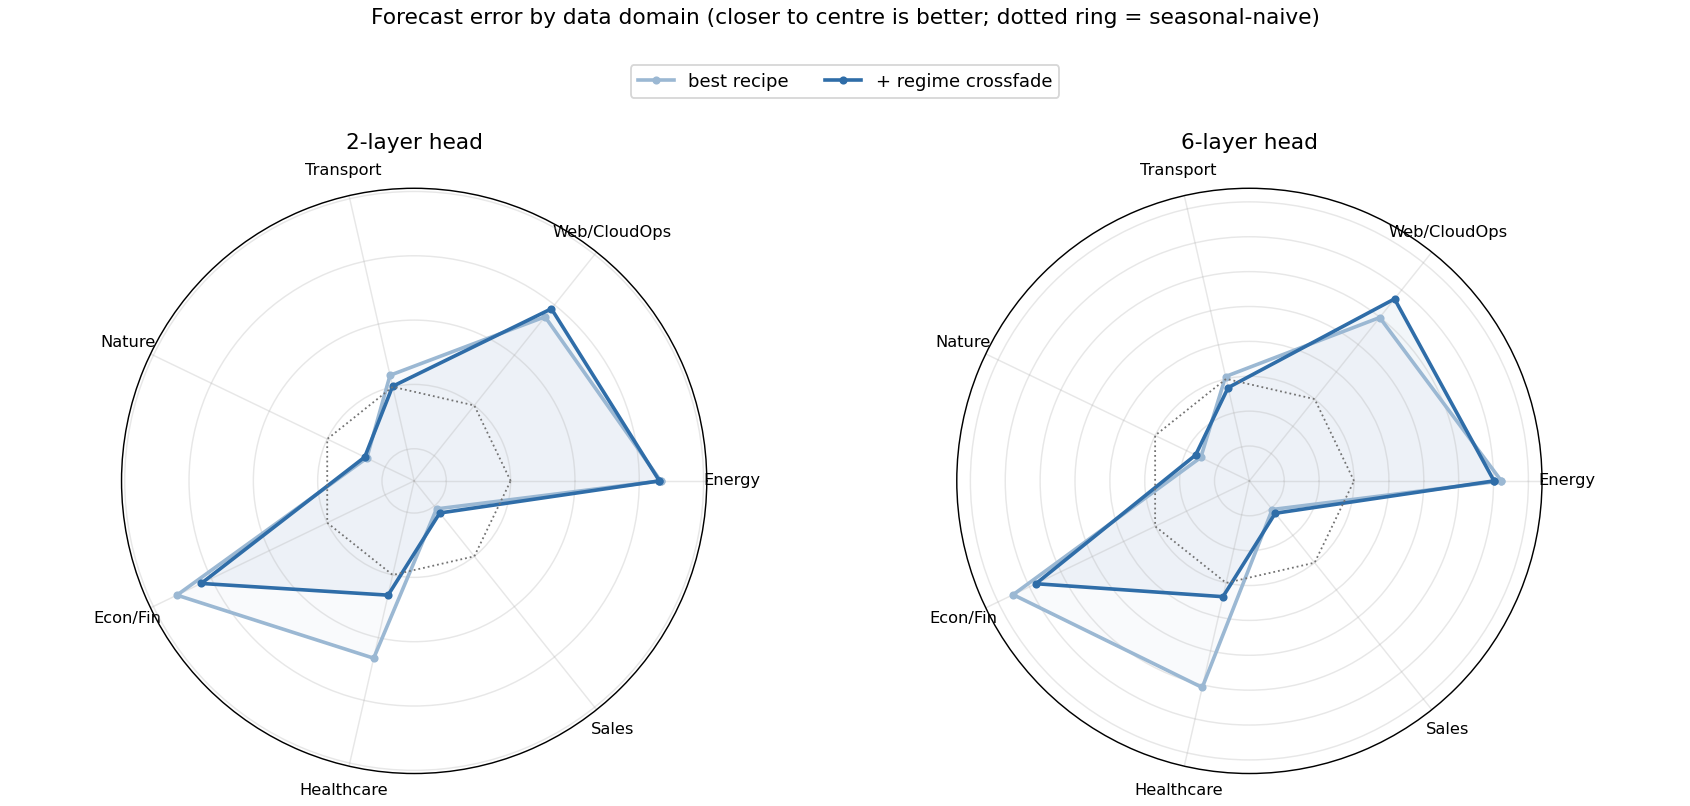
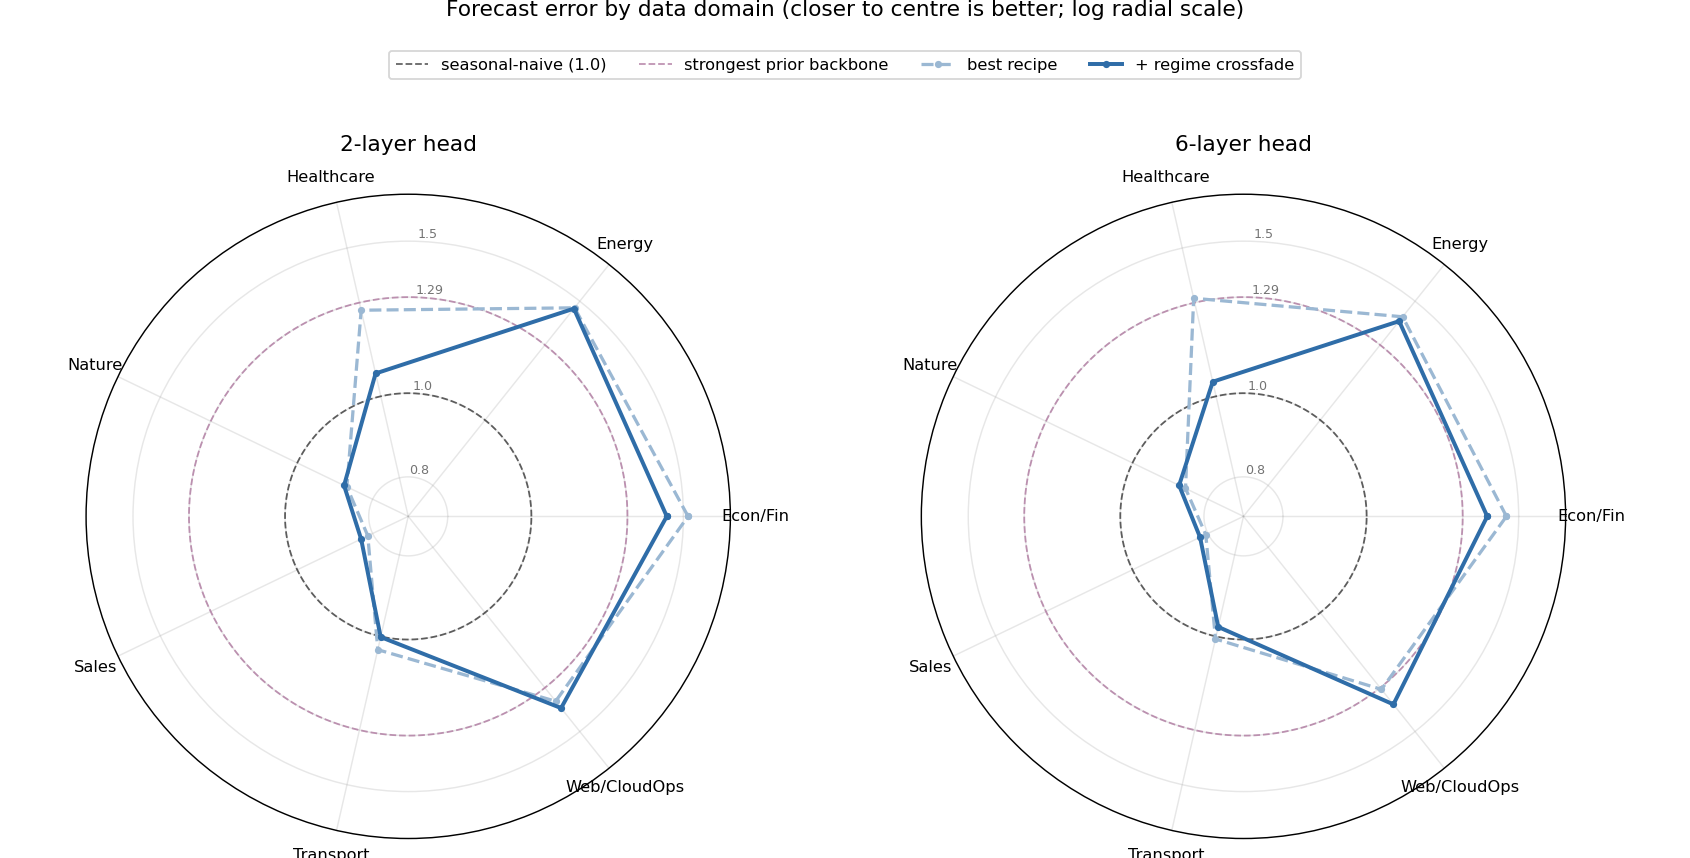
plots(#325): restyle per-domain radar to the parent's house style
Match the parent experiment's radar: fixed (alphabetical) domain order, log
radial axis with clean fixed ticks (0.8/1.0/1.29/1.5), dashed baseline + solid
new, and two reference rings (seasonal-naive 1.0 + strongest prior backbone
1.292). Drops the by-task-count ordering and the muddy fills.

diff --git a/experiments/2026-06-01_crossfade_allt10/scripts/plot_radar.py b/experiments/2026-06-01_crossfade_allt10/scripts/plot_radar.py
@@ -1,10 +1,11 @@
 #!/usr/bin/env python3
 """Per-domain forecast error radar: best recipe vs + regime crossfade, both heads.
 
-For each forecasting head, per-config relative error is read from the eval summaries
-and grouped into the benchmark's 7 data domains (config -> domain map from an
-all_results.csv). Each axis is a domain; each line a model; inner is better; the grey
-ring is the seasonal-naive baseline (1.0).
+Styled to match the parent experiment's radar: domains in a fixed (alphabetical)
+order, a log radial axis so the near-baseline cluster fills the figure, baseline
+dashed / new solid, and two reference rings (seasonal-naive 1.0 and the strongest
+prior backbone). Per-config relative error comes from the eval summaries; the
+config -> domain map from an all_results.csv.
 """
 import csv
 import math
@@ -13,6 +14,7 @@ import numpy as np
 import matplotlib
 matplotlib.use("Agg")
 import matplotlib.pyplot as plt
+from matplotlib.ticker import FixedLocator, NullLocator
 
 SYNC = os.environ.get(
     "SYNC", "/Users/jeremycochoy/Desktop/workspace/trading/contrastive-forecasting/sync_crossfade_allt10")
@@ -21,8 +23,9 @@ OUT = os.environ.get(
     "worktrees/crossfade-allt10/experiments/2026-06-01_crossfade_allt10/plots/perdomain.png")
 BASE_TAG = "xshh_allt_forked10pct_qk_aon_b1024"
 XF_TAG = "xshh_allt_forked10pct_crossfade10pct_qk_aon_b1024"
-DOMAINS = ["Energy", "Web/CloudOps", "Transport", "Nature", "Econ/Fin", "Healthcare", "Sales"]
-BASE_C, XF_C = "#9bb8d3", "#2f6da8"
+DOMAINS = ["Econ/Fin", "Energy", "Healthcare", "Nature", "Sales", "Transport", "Web/CloudOps"]
+NAIVE, PRIOR = 1.0, 1.292
+BASE_C, XF_C, PRIOR_C = "#9bb8d3", "#2f6da8", "#b07aa1"
 
 
 def domain_map():
@@ -32,8 +35,7 @@ def domain_map():
 
 def rels(res_dir, tag, head):
     out = {}
-    p = f"{res_dir}/gift_eval_full_{tag}_{head}/summary.txt"
-    for line in open(p):
+    for line in open(f"{res_dir}/gift_eval_full_{tag}_{head}/summary.txt"):
         q = line.split()
         if len(q) == 4 and "/" in q[0]:
             try:
@@ -51,45 +53,40 @@ def gm(xs):
 def per_domain(rel, dmap):
     by = {d: [] for d in DOMAINS}
     for cfg, v in rel.items():
-        d = dmap.get(cfg)
-        if d in by:
-            by[d].append(v)
+        if dmap.get(cfg) in by:
+            by[dmap[cfg]].append(v)
     return [gm(by[d]) for d in DOMAINS]
 
 
 dmap = domain_map()
 ang = np.linspace(0, 2 * np.pi, len(DOMAINS), endpoint=False)
-ang_closed = np.concatenate([ang, ang[:1]])
+ang_c = np.concatenate([ang, ang[:1]])
+ring_t = np.linspace(0, 2 * np.pi, 200)
 
-fig, axes = plt.subplots(1, 2, figsize=(13, 6.2), subplot_kw=dict(polar=True))
-handles = None
+fig, axes = plt.subplots(1, 2, figsize=(13, 6.6), subplot_kw=dict(polar=True))
 for ax, head, title in zip(axes, ["2L", "6L"], ["2-layer head", "6-layer head"]):
     base = per_domain(rels(f"{SYNC}/analyze/base", BASE_TAG, head), dmap)
     xf = per_domain(rels(f"{SYNC}/analyze/xf", XF_TAG, head), dmap)
-    vmax = max(max(base), max(xf)) * 1.06
-    for vals, c, lab in [(base, BASE_C, "best recipe"), (xf, XF_C, "+ regime crossfade")]:
-        v = np.concatenate([vals, vals[:1]])
-        ax.plot(ang_closed, v, color=c, lw=2, marker="o", ms=3.5, label=lab)
-        ax.fill(ang_closed, v, color=c, alpha=0.06)
-    ax.plot(ang_closed, [1.0] * len(ang_closed), color="0.45", lw=1, ls=":")  # seasonal-naive ring
+    ax.plot(ring_t, [NAIVE] * 200, ls="--", color="k", lw=1, alpha=0.6, label="seasonal-naive (1.0)")
+    ax.plot(ring_t, [PRIOR] * 200, ls="--", color=PRIOR_C, lw=1, alpha=0.8, label="strongest prior backbone")
+    ax.plot(ang_c, base + base[:1], ls="--", color=BASE_C, lw=1.8, marker="o", ms=3, label="best recipe")
+    ax.plot(ang_c, xf + xf[:1], ls="-", color=XF_C, lw=2.2, marker="o", ms=3, label="+ regime crossfade")
+    ax.set_rscale("log")
+    ax.set_rlim(0.72, 1.7)
+    ax.yaxis.set_major_locator(FixedLocator([0.8, 1.0, 1.292, 1.5]))
+    ax.yaxis.set_minor_locator(NullLocator())
+    ax.set_yticklabels(["0.8", "1.0", "1.29", "1.5"], fontsize=7, color="0.45")
+    ax.set_rlabel_position(88)
     ax.set_xticks(ang)
     ax.set_xticklabels(DOMAINS, fontsize=9)
-    ax.set_ylim(0.7, vmax)                       # floor below the smallest domain (~0.8)
-    ax.set_yticklabels([])
-    ax.set_title(title, fontsize=12, pad=22)
+    ax.set_title(title, fontsize=12, pad=24)
     ax.grid(alpha=0.3)
     handles = ax.get_legend_handles_labels()
 
-fig.legend(handles[0], handles[1], loc="upper center", ncol=2, fontsize=10, bbox_to_anchor=(0.5, 0.93))
-fig.suptitle("Forecast error by data domain (closer to centre is better; dotted ring = seasonal-naive)",
-             fontsize=12, y=0.99)
-fig.tight_layout(rect=(0, 0, 1, 0.9))
+fig.legend(handles[0], handles[1], loc="upper center", ncol=4, fontsize=9, bbox_to_anchor=(0.5, 0.95))
+fig.suptitle("Forecast error by data domain (closer to centre is better; log radial scale)",
+             fontsize=12, y=1.0)
+fig.tight_layout(rect=(0, 0, 1, 0.88))
 os.makedirs(os.path.dirname(OUT), exist_ok=True)
 fig.savefig(OUT, dpi=130)
 print("wrote", OUT)
-for head in ["2L", "6L"]:
-    base = per_domain(rels(f"{SYNC}/analyze/base", BASE_TAG, head), dmap)
-    xf = per_domain(rels(f"{SYNC}/analyze/xf", XF_TAG, head), dmap)
-    print(f"{head}:")
-    for d, b, x in zip(DOMAINS, base, xf):
-        print(f"   {d:14s} best {b:.3f}  xf {x:.3f}  Δ {x-b:+.3f}")
